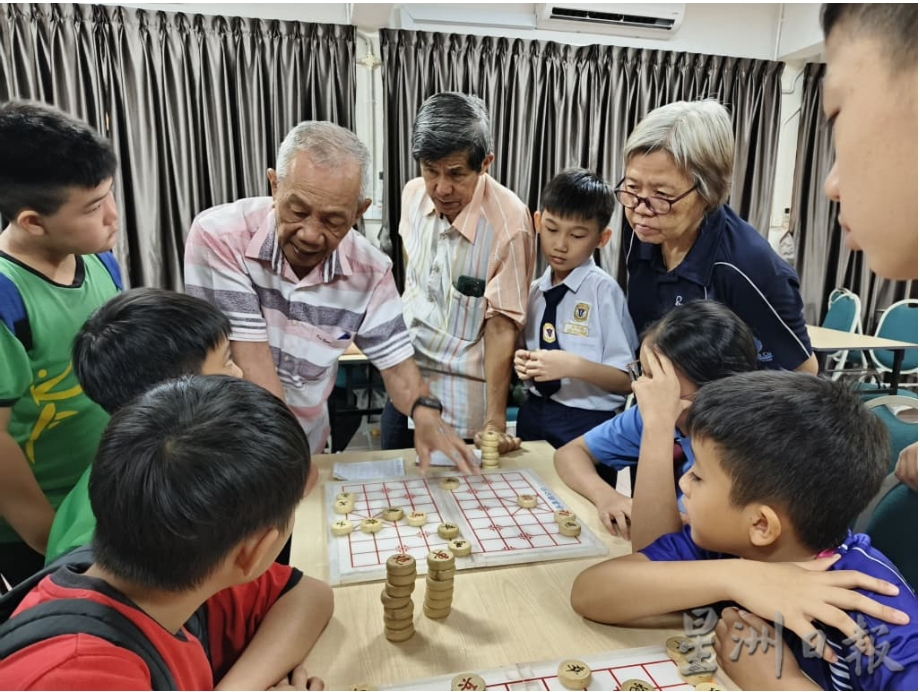
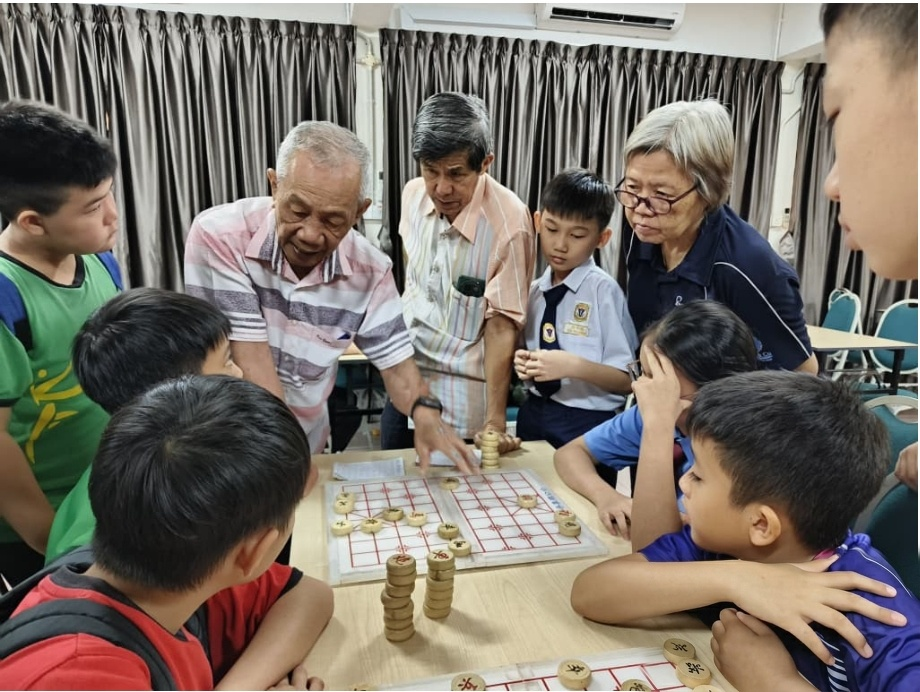
feat(events): implement native CXQB recap modal and watermark-free tournament photos

Changed region(s): [[0.7, 0.789, 1.0, 1.0], [0.7304, 0.789, 0.8522, 0.8194]]

diff --git a/events.html b/events.html
@@ -286,6 +286,63 @@
       cursor: pointer; background: rgba(255,255,255,0.1); width: 44px; height: 44px; border-radius: 50%;
       display: flex; align-items: center; justify-content: center; border: 1px solid rgba(255,255,255,0.2);
     }
+    /* RECAP MODAL */
+    .event-modal {
+      position: fixed; inset: 0; z-index: 9998;
+      background: rgba(4, 12, 23, 0.88);
+      backdrop-filter: blur(16px); -webkit-backdrop-filter: blur(16px);
+      display: none; align-items: center; justify-content: center; padding: 20px;
+    }
+    .event-modal.show { display: flex; animation: fadeIn 0.25s ease; }
+    .event-modal__content {
+      background: linear-gradient(180deg, #0b1a2f 0%, #07101e 100%);
+      border: 1.5px solid rgba(241, 196, 15, 0.4);
+      border-radius: 20px; width: 100%; max-width: 620px;
+      max-height: 88vh; overflow-y: auto; padding: 28px 24px;
+      box-shadow: 0 20px 60px rgba(0, 0, 0, 0.7); position: relative;
+    }
+    .event-modal__close {
+      position: absolute; top: 16px; right: 18px; font-size: 24px;
+      color: var(--ink-dim); background: none; border: none; cursor: pointer;
+      line-height: 1; transition: color 0.2s;
+    }
+    .event-modal__close:hover { color: #fff; }
+    .event-modal__badge {
+      display: inline-block; font-size: 10.5px; font-weight: 800; color: var(--gold);
+      background: rgba(241,196,15,0.12); border: 1px solid rgba(241,196,15,0.25);
+      padding: 3px 10px; border-radius: 6px; margin-bottom: 8px; letter-spacing: 1px;
+    }
+    .event-modal__title {
+      font-family: var(--font-serif); font-size: 1.35rem; color: #fff; font-weight: 800;
+      line-height: 1.35; margin-bottom: 6px;
+    }
+    .event-modal__meta-date {
+      font-size: 12px; font-weight: 700; color: var(--gold); margin-bottom: 16px;
+    }
+    .event-modal__desc {
+      font-size: 13.5px; color: var(--ink-dim); line-height: 1.7; margin-bottom: 16px;
+      border-bottom: 1px solid var(--line-soft); padding-bottom: 14px;
+    }
+    .event-modal__grid-meta {
+      display: grid; grid-template-columns: 1fr; gap: 12px; margin-bottom: 18px;
+    }
+    @media (min-width: 520px) {
+      .event-modal__grid-meta { grid-template-columns: 1fr 1fr; }
+    }
+    .event-modal__meta-card {
+      background: rgba(255,255,255,0.03); border: 1px solid rgba(255,255,255,0.08);
+      border-radius: 10px; padding: 12px 14px;
+    }
+    .event-modal__meta-k {
+      font-size: 11px; font-weight: 800; color: var(--gold); letter-spacing: 0.5px; margin-bottom: 6px;
+    }
+    .event-modal__meta-v {
+      font-size: 12px; color: var(--ink-dim); line-height: 1.6;
+    }
+    .event-modal__sec-title {
+      font-size: 12px; font-weight: 800; color: var(--gold); letter-spacing: 1px;
+      margin-bottom: 10px; text-transform: uppercase;
+    }
   </style>
 </head>
 <body>
@@ -540,8 +597,11 @@
             百乐县华小象棋新星交流盛会，由吉拉央华小主办、百乐县象棋公会协办。全县 5 所华小 20 位优秀小棋手同台竞技。点击上方现场照片即可浏览高分辨率实况图集。
           </p>
           <div style="display:flex; gap:10px; flex-wrap:wrap; margin-top:auto;">
-            <button class="event-card__btn event-card__btn--secondary" style="flex:1; width:100%; border-color:rgba(241,196,15,0.4); color:var(--gold); text-align:center;" onclick="openLightbox('event_2026_group.png')" data-i18n="evt_done.btn_gallery">
-              浏览全景实况图集 (4张) →
+            <button class="event-card__btn event-card__btn--secondary" style="flex:1; min-width:140px; border-color:rgba(241,196,15,0.5); color:var(--gold); text-align:center;" onclick="openRecapModal()" data-i18n="evt_done.btn_recap">
+              查看官方实录与荣誉榜 →
+            </button>
+            <button class="event-card__btn event-card__btn--secondary" style="flex:1; min-width:140px; text-align:center;" onclick="openLightbox('event_2026_group.png')" data-i18n="evt_done.btn_gallery">
+              浏览实况图集 (4张)
             </button>
           </div>
         </div>
@@ -581,6 +641,88 @@
 <div id="lightbox" class="lightbox" onclick="closeLightbox()">
   <span class="lightbox__close">&times;</span>
   <img id="lightboxImg" class="lightbox__img" src="" alt="放大海报">
+</div>
+
+<!-- EVENT RECORD & HONOR ROLL MODAL (CXQB OWN SYSTEM) -->
+<div id="eventRecapModal" class="event-modal" onclick="closeRecapModal(event)">
+  <div class="event-modal__content" onclick="event.stopPropagation()">
+    <button class="event-modal__close" onclick="closeRecapModal()">&times;</button>
+    
+    <div class="event-modal__header">
+      <div class="event-modal__badge" data-i18n="modal.badge">官方赛事存档 · CXQB OFFICIAL ARCHIVE</div>
+      <h2 class="event-modal__title" data-i18n="modal.title">2026年百乐县小学中国象棋赛（“旗开得胜”校园赛）</h2>
+      <div class="event-modal__meta-date" data-i18n="modal.date">2026年6月13日 (星期六) · 吉拉央华小活动中心</div>
+    </div>
+
+    <!-- SUMMARY SECTION -->
+    <div class="event-modal__section">
+      <p class="event-modal__desc" data-i18n="modal.desc">
+        百乐县华小象棋新星交流盛会，由吉拉央华小主办、百乐县象棋公会协办。全县 5 所华小派出 20 位优秀小棋手同台竞技。公会主席张福明、副主席姚和福率评审团亲临现场执裁与复盘指点；吉拉央华小林洁慧校长在致辞中勉励小棋手培养逻辑分析、专注沉着与前瞻思维。
+      </p>
+    </div>
+
+    <!-- ORG & PANEL -->
+    <div class="event-modal__grid-meta">
+      <div class="event-modal__meta-card">
+        <div class="event-modal__meta-k" data-i18n="modal.org_title">组织架构与执裁阵容</div>
+        <div class="event-modal__meta-v" data-i18n="modal.org_detail">
+          主办：吉拉央华小 SJK(C) Kerayong<br>
+          协办：百乐县象棋公会 (张福明主席主评、姚和福副主席复盘)<br>
+          评审：张泰理事、蔡妮寰财政、苏翠珊老师<br>
+          嘉宾：蔡伟雅女士 · 致辞：林洁慧校长
+        </div>
+      </div>
+      <div class="event-modal__meta-card">
+        <div class="event-modal__meta-k" data-i18n="modal.scale_title">参赛规模与源流学校</div>
+        <div class="event-modal__meta-v" data-i18n="modal.scale_detail">
+          全县 5 所华文小学 · 共 20 位代表小棋手<br>
+          吉拉央华小 · 直凉华小（一校）<br>
+          直凉立德华小 · 明光华小 · 文德里华小
+        </div>
+      </div>
+    </div>
+
+    <!-- TOP 8 HONOR ROLL -->
+    <div class="event-modal__section">
+      <div class="event-modal__sec-title" data-i18n="modal.podium_title">比赛前八强荣誉榜 (Podium & Merit Roll)</div>
+      <div class="event-podium__list">
+        <div class="event-podium__item">
+          <span class="event-podium__rank" style="color:var(--gold); font-weight:800;" data-i18n="modal.rank1">冠军 (Gold)：</span>
+          <span class="event-podium__name" style="color:#fff;" data-i18n="modal.winner1">莫宇哲 (明光华小 SJKC Mengkuang)</span>
+        </div>
+        <div class="event-podium__item">
+          <span class="event-podium__rank" style="color:#d1d5db; font-weight:800;" data-i18n="modal.rank2">亚军 (Silver)：</span>
+          <span class="event-podium__name" style="color:#fff;" data-i18n="modal.winner2">梁釉盛 (立德华小 SJKC Liat Koon)</span>
+        </div>
+        <div class="event-podium__item">
+          <span class="event-podium__rank" style="color:#cd7f32; font-weight:800;" data-i18n="modal.rank3">季军 (Bronze)：</span>
+          <span class="event-podium__name" style="color:#fff;" data-i18n="modal.winner3">黄礼阳 (直凉一校 SJKC Triang 1)</span>
+        </div>
+        <div class="event-podium__item">
+          <span class="event-podium__rank" data-i18n="modal.rank4">第四名 (4th)：</span>
+          <span class="event-podium__name" data-i18n="modal.winner4">张宇诚 (直凉一校 SJKC Triang 1)</span>
+        </div>
+        <div class="event-podium__item">
+          <span class="event-podium__rank" data-i18n="modal.rank5">第五名 (5th)：</span>
+          <span class="event-podium__name" data-i18n="modal.winner5">陈嘉谦 (直凉一校 SJKC Triang 1)</span>
+        </div>
+        <div class="event-podium__item" style="border-top:1px dashed rgba(241,196,15,0.25); padding-top:6px; margin-top:4px;">
+          <span class="event-podium__rank" data-i18n="modal.rank_merit">安慰奖 (Merit)：</span>
+          <span class="event-podium__name" data-i18n="modal.winner_merit">颜宇仁 (文德里) · 何品翰 (吉拉央) · 苏奕宸 (吉拉央)</span>
+        </div>
+      </div>
+    </div>
+
+    <!-- FOOTER BUTTON -->
+    <div style="display:flex; gap:12px; margin-top:20px; flex-wrap:wrap;">
+      <a href="ladder.html" class="event-card__btn event-card__btn--secondary" style="flex:1; border-color:rgba(241,196,15,0.4); color:var(--gold); text-align:center; text-decoration:none;" data-i18n="modal.btn_ladder">
+        查看选手天梯等级分 (ladder.html) →
+      </a>
+      <button class="event-card__btn" style="flex:1; background:rgba(255,255,255,0.1); color:#fff; border:1px solid rgba(255,255,255,0.2);" onclick="closeRecapModal()" data-i18n="modal.btn_close">
+        关闭返回
+      </button>
+    </div>
+  </div>
 </div>
 
 <!-- APPLE STYLE MEGA MENU -->
@@ -666,6 +808,17 @@
 
   function closeLightbox() {
     document.getElementById('lightbox').classList.remove('show');
+  }
+
+  function openRecapModal() {
+    document.getElementById('eventRecapModal').classList.add('show');
+    document.body.style.overflow = 'hidden';
+  }
+
+  function closeRecapModal(e) {
+    if (e && e.target !== document.getElementById('eventRecapModal')) return;
+    document.getElementById('eventRecapModal').classList.remove('show');
+    document.body.style.overflow = '';
   }
 
   function filterEvents(category, btnEl) {
@@ -767,6 +920,30 @@
       "evt_done.title": "2026年百乐县小学中国象棋赛（“旗开得胜”校园赛）",
       "evt_done.desc": "百乐县华小象棋新星交流盛会，由吉拉央华小主办、百乐县象棋公会协办。全县 5 所华小 20 位优秀小棋手同台竞技。点击上方现场照片即可浏览高分辨率实况图集。",
       "evt_done.btn_gallery": "浏览全景实况图集 (4张) →",
+      "evt_done.btn_recap": "查看官方实录与荣誉榜 →",
+      "modal.badge": "官方赛事存档 · CXQB OFFICIAL ARCHIVE",
+      "modal.title": "2026年百乐县小学中国象棋赛（“旗开得胜”校园赛）",
+      "modal.date": "2026年6月13日 (星期六) · 吉拉央华小活动中心",
+      "modal.desc": "百乐县华小象棋新星交流盛会，由吉拉央华小主办、百乐县象棋公会协办。全县 5 所华小派出 20 位优秀小棋手同台竞技。公会主席张福明、副主席姚和福率评审团亲临现场执裁与复盘指点；吉拉央华小林洁慧校长在致辞中勉励小棋手培养逻辑分析、专注沉着与前瞻思维。",
+      "modal.org_title": "组织架构与执裁阵容",
+      "modal.org_detail": "主办：吉拉央华小 SJK(C) Kerayong<br>协办：百乐县象棋公会 (张福明主席主评、姚和福副主席复盘)<br>评审：张泰理事、蔡妮寰财政、苏翠珊老师<br>嘉宾：蔡伟雅女士 · 致辞：林洁慧校长",
+      "modal.scale_title": "参赛规模与源流学校",
+      "modal.scale_detail": "全县 5 所华文小学 · 共 20 位代表小棋手<br>吉拉央华小 · 直凉华小（一校）<br>直凉立德华小 · 明光华小 · 文德里华小",
+      "modal.podium_title": "比赛前八强荣誉榜 (Podium & Merit Roll)",
+      "modal.rank1": "冠军 (Gold)：",
+      "modal.winner1": "莫宇哲 (明光华小 SJKC Mengkuang)",
+      "modal.rank2": "亚军 (Silver)：",
+      "modal.winner2": "梁釉盛 (立德华小 SJKC Liat Koon)",
+      "modal.rank3": "季军 (Bronze)：",
+      "modal.winner3": "黄礼阳 (直凉一校 SJKC Triang 1)",
+      "modal.rank4": "第四名 (4th)：",
+      "modal.winner4": "张宇诚 (直凉一校 SJKC Triang 1)",
+      "modal.rank5": "第五名 (5th)：",
+      "modal.winner5": "陈嘉谦 (直凉一校 SJKC Triang 1)",
+      "modal.rank_merit": "安慰奖 (Merit)：",
+      "modal.winner_merit": "颜宇仁 (文德里) · 何品翰 (吉拉央) · 苏奕宸 (吉拉央)",
+      "modal.btn_ladder": "查看选手天梯等级分 (ladder.html) →",
+      "modal.btn_close": "关闭返回",
       "footer.about_title": "关于我们",
       "footer.about_desc": "百乐象棋俱乐部 (CXQB)<br>彭亨百乐县唯一专业中国象棋教育学院<br>统筹全县赛事与等级分考级认证",
       "footer.partners_title": "认证机构 & 官方合作伙伴",
@@ -856,6 +1033,30 @@
       "evt_done.title": "Kejohanan Catur Murid SJK(C) Bera 2026 («Qi Kai De Sheng»)",
       "evt_done.desc": "Acara pertukaran catur cilik anjuran SJK(C) Kerayong dan Persatuan Catur Cina Daerah Bera. Menghimpunkan 20 pemain cilik daripada 5 buah SJK(C) Bera. Klik foto di atas untuk paparan galeri penuh.",
       "evt_done.btn_gallery": "Lihat Galeri Foto Kejohanan (4 Foto) →",
+      "evt_done.btn_recap": "Lihat Rekod Rasmi & Senarai Pemenang →",
+      "modal.badge": "ARKIB RASMI KEJOHANAN · CXQB OFFICIAL ARCHIVE",
+      "modal.title": "Kejohanan Catur Murid SJK(C) Bera 2026 («Qi Kai De Sheng»)",
+      "modal.date": "13 Jun 2026 (Sabtu) · Pusat Aktiviti SJK(C) Kerayong",
+      "modal.desc": "Acara pertukaran bakat catur cilik anjuran SJK(C) Kerayong dan Persatuan Catur Cina Daerah Bera. Seramai 20 orang murid cilik dari 5 buah SJK(C) Bera berentap. Pengerusi Persatuan En. Teoh Hock Meng dan Naib Pengerusi En. Yew Hoo Hock bersama panel pengadil hadir membimbing; Guru Besar Lim Kiat Hui menekankan kepentingan analisis logik, fokus dan perancangan strategik.",
+      "modal.org_title": "Struktur Organisasi & Panel Pengadil",
+      "modal.org_detail": "Penganjur: SJK(C) Kerayong<br>Rakan Penganjur: Persatuan Catur Cina Daerah Bera (En. Teoh Hock Meng & En. Yew Hoo Hock)<br>Pengadil: En. Chong Thai, Pn. Chua Nee Huan, Cikgu Soh Chwee San<br>Tetamu Khas: Pn. Chua Wei Ya · Ucapan: Guru Besar Lim Kiat Hui",
+      "modal.scale_title": "Skala Penyertaan & Sekolah Terlibat",
+      "modal.scale_detail": "5 buah SJK(C) Bera · 20 peserta cilik<br>SJK(C) Kerayong · SJK(C) Triang 1<br>SJK(C) Triang 2 (Liat Koon) · SJK(C) Mengkuang · SJK(C) Menteri",
+      "modal.podium_title": "Senarai Pemenang 8 Terbaik (Podium & Penghargaan)",
+      "modal.rank1": "Juara (Emas):",
+      "modal.winner1": "Mok Yu Zhe (SJKC Mengkuang)",
+      "modal.rank2": "Naib Juara (Perak):",
+      "modal.winner2": "Leong You Sheng (SJKC Liat Koon)",
+      "modal.rank3": "Tempat Ke-3 (Gangsa):",
+      "modal.winner3": "Ng Li Yang (SJKC Triang 1)",
+      "modal.rank4": "Tempat Ke-4:",
+      "modal.winner4": "Teoh Yu Cheng (SJKC Triang 1)",
+      "modal.rank5": "Tempat Ke-5:",
+      "modal.winner5": "Tan Jia Qian (SJKC Triang 1)",
+      "modal.rank_merit": "Hadiah Saguhati:",
+      "modal.winner_merit": "Gan Yu Ren (Menteri) · Ho Pin Han (Kerayong) · Soh Yi Chen (Kerayong)",
+      "modal.btn_ladder": "Lihat Kedudukan ELO Pemain (ladder.html) →",
+      "modal.btn_close": "Tutup",
       "footer.about_title": "Mengenai Kami",
       "footer.about_desc": "Club XiangQi Bera (CXQB)<br>Akademi latihan catur Cina rasmi<br>dan badan pensijilan di Bera, Pahang.",
       "footer.partners_title": "Rakan Rasmi & Pensijilan",
@@ -945,6 +1146,30 @@
       "evt_done.title": "2026 Bera Primary Schools Xiangqi Championship (\"Qi Kai De Sheng\")",
       "evt_done.desc": "Premier young talents invitational organized by SJK(C) Kerayong and co-organized by Bera District Xiangqi Association, gathering 20 elite players across 5 Chinese primary schools. Click photos above to view high-resolution gallery.",
       "evt_done.btn_gallery": "View Match Photo Gallery (4 Photos) →",
+      "evt_done.btn_recap": "View Official Record & Honor Roll →",
+      "modal.badge": "OFFICIAL TOURNAMENT ARCHIVE · CXQB ARCHIVE",
+      "modal.title": "2026 Bera Primary Schools Xiangqi Championship (\"Qi Kai De Sheng\")",
+      "modal.date": "June 13, 2026 (Saturday) · SJK(C) Kerayong Activity Centre",
+      "modal.desc": "Premier young talents invitational organized by SJK(C) Kerayong and co-organized by Bera District Xiangqi Association, gathering 20 elite players across 5 Chinese primary schools. Association Chairman Mr. Teoh Hock Meng and Vice Chairman Mr. Yew Hoo Hock led the adjudicators with post-game analysis; Principal Lim Kiat Hui encouraged students in developing logical reasoning, focus, and forward-thinking acumen.",
+      "modal.org_title": "Organization & Panel of Adjudicators",
+      "modal.org_detail": "Organizer: SJK(C) Kerayong<br>Co-organizer: Bera Xiangqi Association (Chairman Teoh Hock Meng, Vice Chairman Yew Hoo Hock)<br>Adjudicators: Chong Thai, Chua Nee Huan, Teacher Soh Chwee San<br>Guest of Honor: Ms. Chua Wei Ya · Address: Principal Lim Kiat Hui",
+      "modal.scale_title": "Participation Scale & Schools",
+      "modal.scale_detail": "5 Primary Schools in Bera · 20 Elite Junior Players<br>SJK(C) Kerayong · SJK(C) Triang 1<br>SJK(C) Liat Koon · SJK(C) Mengkuang · SJK(C) Menteri",
+      "modal.podium_title": "Top 8 Honor Roll (Podium & Merit Roll)",
+      "modal.rank1": "Champion (Gold):",
+      "modal.winner1": "Mok Yu Zhe (SJKC Mengkuang)",
+      "modal.rank2": "1st Runner-up (Silver):",
+      "modal.winner2": "Leong You Sheng (SJKC Liat Koon)",
+      "modal.rank3": "2nd Runner-up (Bronze):",
+      "modal.winner3": "Ng Li Yang (SJKC Triang 1)",
+      "modal.rank4": "4th Place:",
+      "modal.winner4": "Teoh Yu Cheng (SJKC Triang 1)",
+      "modal.rank5": "5th Place:",
+      "modal.winner5": "Tan Jia Qian (SJKC Triang 1)",
+      "modal.rank_merit": "Consolation (Merit):",
+      "modal.winner_merit": "Gan Yu Ren (Menteri) · Ho Pin Han (Kerayong) · Soh Yi Chen (Kerayong)",
+      "modal.btn_ladder": "View Player ELO Standings (ladder.html) →",
+      "modal.btn_close": "Close",
       "footer.about_title": "About Us",
       "footer.about_desc": "Club XiangQi Bera (CXQB)<br>Official Xiangqi training academy<br>and rating body in Bera, Pahang.",
       "footer.partners_title": "Official Partners",
